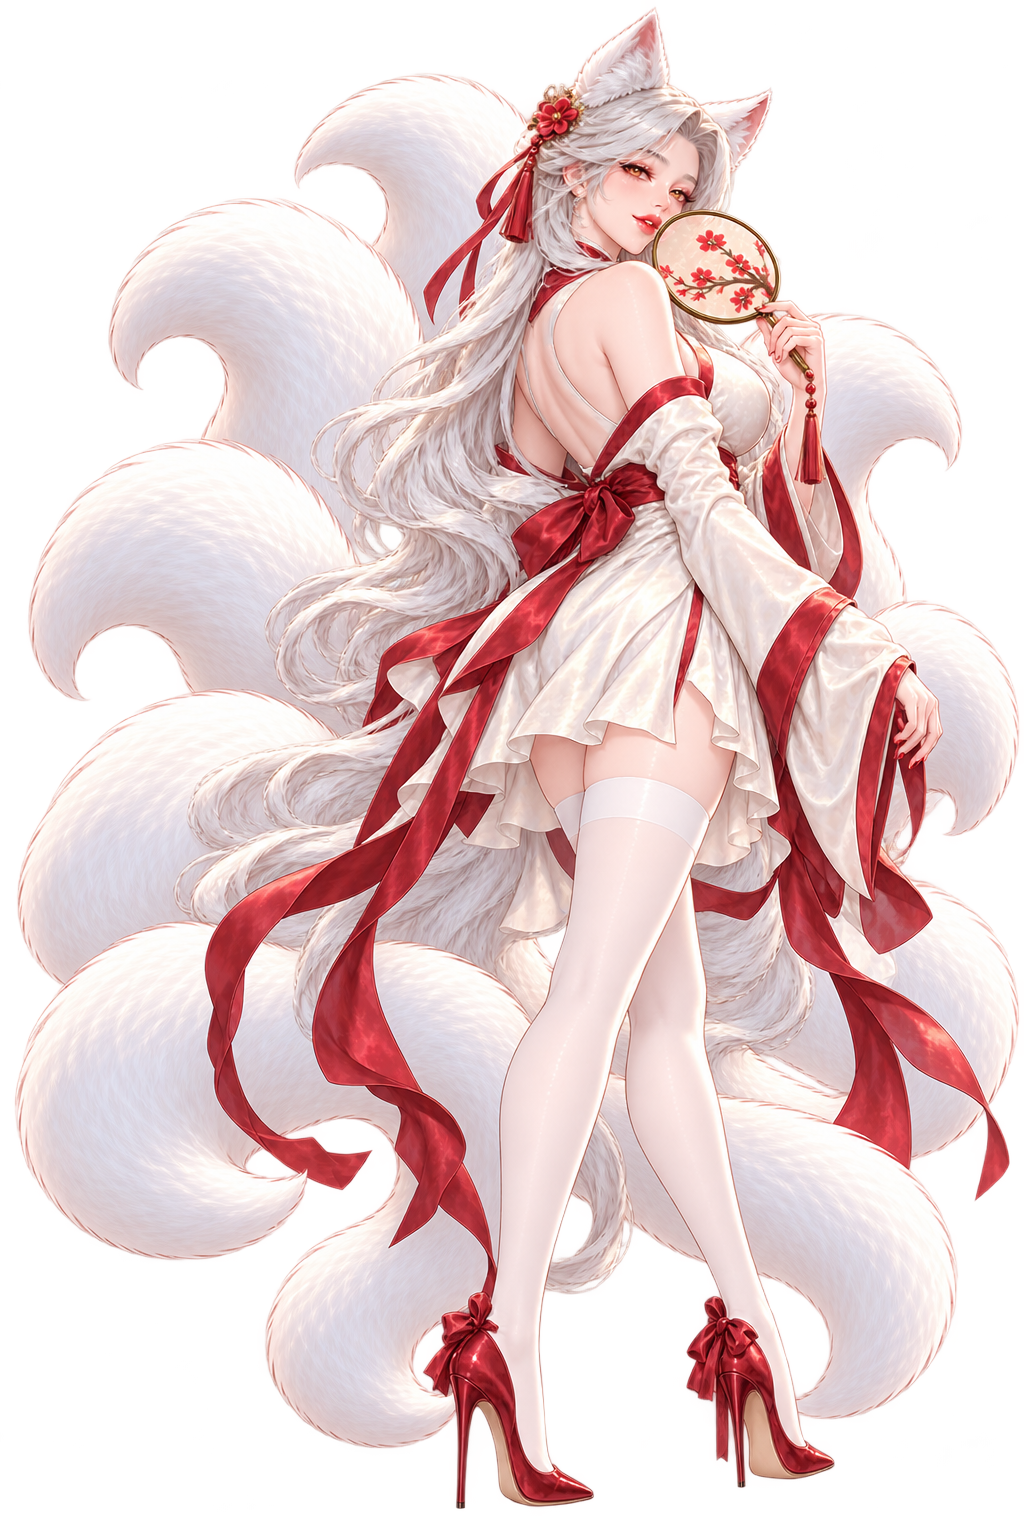
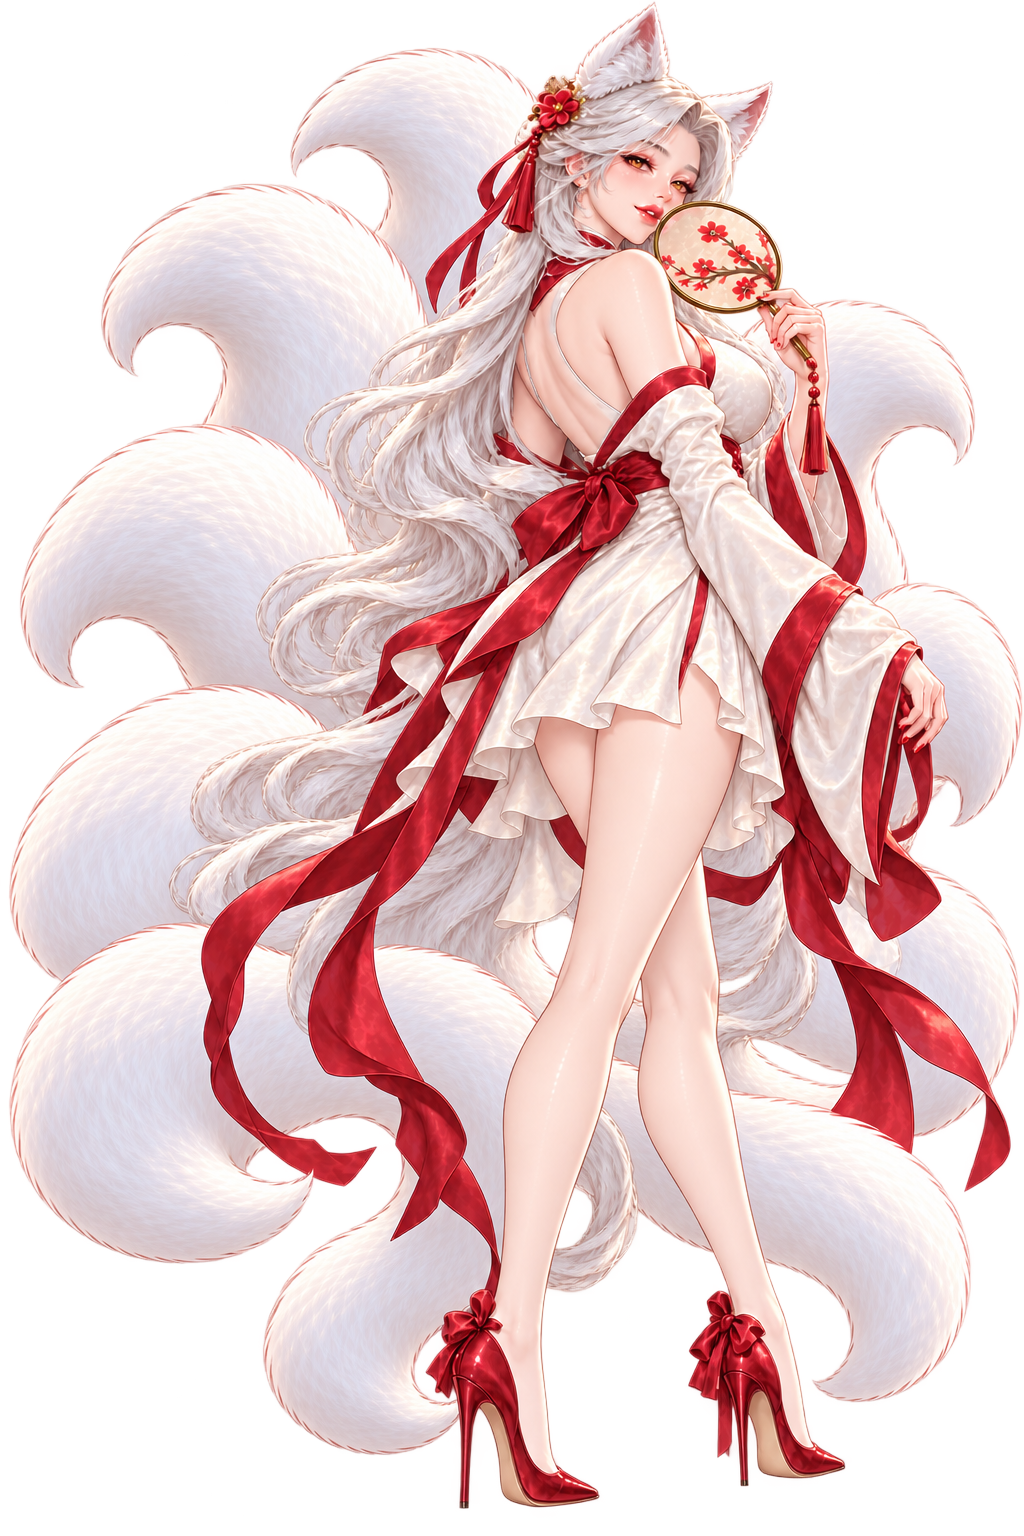
sample: 날씬하고 탄탄한 체형, 다리 차림을 식객마다 다르게
- 가슴·허벅지를 키우다 살쪄 보이던 몸을 모델처럼 날씬하게(가슴은 크되 과하지 않게)
- 스타킹을 빼고 백설·소담은 맨다리에 하이힐, 무영은 무릎 아래 부츠
- 그림 프롬프트와 디자인 기준 문서에 같은 기준을 적음

Claude-Session: https://claude.ai/code/session_01AG3ixGBdGKPAAzXvjh6L4F

diff --git a/src/data/art.ts b/src/data/art.ts
@@ -11,8 +11,8 @@ const STYLE =
 // 디자인 기준은 docs/CHARACTER_GUIDE.md. 체형은 공통, 옷과 자세는 식객마다 다르게(subject에 적는다).
 const HEROINE =
   'Polished Korean gacha-game character art: soft airbrushed shading, glossy luminous skin with a warm blush, detailed glossy eyes. ' +
-  'The character is clearly an adult woman in her late twenties, very beautiful and glamorous: tall and long-legged (about eight heads tall, small head, legs longer than half her height), large bust, slim waist, curvy hips in proportion (not exaggerated) and full shapely thighs; she must not look short or stocky. ' +
-  'Bold, daring outfit that shows skin (bare midriff, bare shoulders, deep neckline, short skirt) and her curves; her outfit, pose and expression follow the subject description and express her personality. ' +
+  'The character is clearly an adult woman in her late twenties, very beautiful and glamorous, with a slender, fit model-like figure: tall and long-legged (about eight heads tall), slim shoulders and arms, a very slim waist, long slender legs with shapely slim thighs, a large but natural bust (not oversized); never chubby, plump or stocky. ' +
+  'Bold, daring outfit that shows skin (bare back, bare shoulders, deep neckline, high slit, short skirt); legwear differs per character (bare legs are fine, not everyone wears stockings) and her curves; her outfit, pose and expression follow the subject description and express her personality. ' +
   'Alluring but tasteful and non-explicit: no nudity, no underwear visible, no low camera angle looking up the skirt.';
 
 const FRAME = {

diff --git a/docs/CHARACTER_GUIDE.md b/docs/CHARACTER_GUIDE.md
@@ -21,7 +21,7 @@
 2. **자세가 성격을 말한다.** 식객마다 대표 자세를 하나씩 정하고 겹치지 않게 한다.
 3. **검은 실루엣 시험.** 까맣게 칠해도 누구인지 알아볼 수 있어야 한다. 머리 모양, 옷 윤곽, 소품 셋 중 둘은 남과 달라야 한다.
 4. **대표 색 2~3개.** 다른 식객과 주된 색이 겹치지 않게 한다.
-5. **체형.** 모두 성인 여성이고 키가 크고 다리가 길다(머리 크기의 8배 정도 키, 다리가 키의 절반 이상). 큰 가슴, 가는 허리, 탄탄한 허벅지의 글래머 체형이다. 골반을 너무 키우면 키가 작고 뭉툭해 보이니 비율에 맞춘다. 다리가 너무 가늘어도 안 된다.
+5. **체형.** 모두 성인 여성이고 모델처럼 날씬하고 탄탄하다. 키가 크고 다리가 길며(머리 크기의 8배 정도 키) 어깨·팔·허리가 가늘다. 가슴은 크되 과하지 않게, 허벅지는 매끈하게 한다. 가슴·골반·허벅지를 키우라고만 하면 키가 작고 뭉툭해지거나 살쪄 보이니 피한다. 스타킹은 캐릭터마다 다르게 하고 맨다리도 쓴다.
 6. **구도와 채색(니케 참고).** 대표 그림은 전신(앉은 자세 포함)으로, 두 발이 바닥이나 의자에 제대로 닿게 한다. 옷은 현대 패션(제복, 미니스커트, 재킷, 스타킹, 부츠)에 저고리 깃·리본·노리개 같은 조선 요소를 섞는다. 시점은 눈높이로 하고, 아래에서 치마 속을 올려다보는 각도는 쓰지 않는다. 명암은 부드럽게 번지게, 피부는 윤기 있게, 볼은 붉게 한다. 표정은 장난스럽거나 유혹적으로 성격을 드러낸다.
 7. **꾸밈은 적게.** 금장식, 겹겹 장신구, 꽃잎, 반짝이 효과는 넣지 않는다. 눈길은 얼굴, 몸선, 소품에 모은다.
 8. **노출 수위.** 과감하게 간다(드러난 배, 어깨, 깊은 목선, 짧은 치마). 다만 속옷이나 맨몸은 보이지 않게 한다.
@@ -30,9 +30,9 @@
 
 | 식객 | 출신·역할 | 옷 | 대표 자세 | 색 |
 | --- | --- | --- | --- | --- |
-| 백설 | 구미호, 매력 | 등이 트인 상아색 홀터 미니 원피스(저고리 깃·진홍 테), 떼어 낸 소매, 길게 늘어진 진홍 리본, 흰 스타킹, 빨간 하이힐 | 등을 보이고 돌아서서 어깨 너머로 보며 부채로 입가를 가림 | 흰색 · 진홍 |
-| 무영 | 도깨비, 무관 | 윤기 나는 검정 바디슈트(옆 트임·깊은 목선·청록 깃), 어깨에서 흘러내린 짧은 장교 재킷, 허벅지 끈, 무릎 위 부츠 | 쇠방망이를 두 어깨 뒤로 걸치고 손목을 얹은 채 몸을 비틀어 섬 | 검정 · 청록 |
-| 소담 | 우렁각시, 살림꾼 | 깊은 V넥·옆 트임이 높은 연보라 새틴 원피스(저고리 깃), 비치는 짧은 카디건, 흰 스타킹, 연보라 하이힐 | 허리에 손을 얹고 붓을 입에 문 채 윙크 | 연보라 · 상아 |
+| 백설 | 구미호, 매력 | 등이 트인 상아색 홀터 미니 원피스(저고리 깃·진홍 테), 떼어 낸 소매, 길게 늘어진 진홍 리본, 맨다리에 리본 묶은 빨간 하이힐 | 등을 보이고 돌아서서 어깨 너머로 보며 부채로 입가를 가림 | 흰색 · 진홍 |
+| 무영 | 도깨비, 무관 | 윤기 나는 검정 바디슈트(옆 트임·깊은 목선·청록 깃), 어깨에서 흘러내린 짧은 장교 재킷, 허벅지 끈, 맨 허벅지에 무릎 아래 부츠 | 쇠방망이를 두 어깨 뒤로 걸치고 손목을 얹은 채 몸을 비틀어 섬 | 검정 · 청록 |
+| 소담 | 우렁각시, 살림꾼 | 깊은 V넥·옆 트임이 높은 연보라 새틴 원피스(저고리 깃), 비치는 짧은 카디건, 맨다리에 연보라 하이힐 | 허리에 손을 얹고 붓을 입에 문 채 윙크 | 연보라 · 상아 |
 
 ## 그림 생성 요령
 
